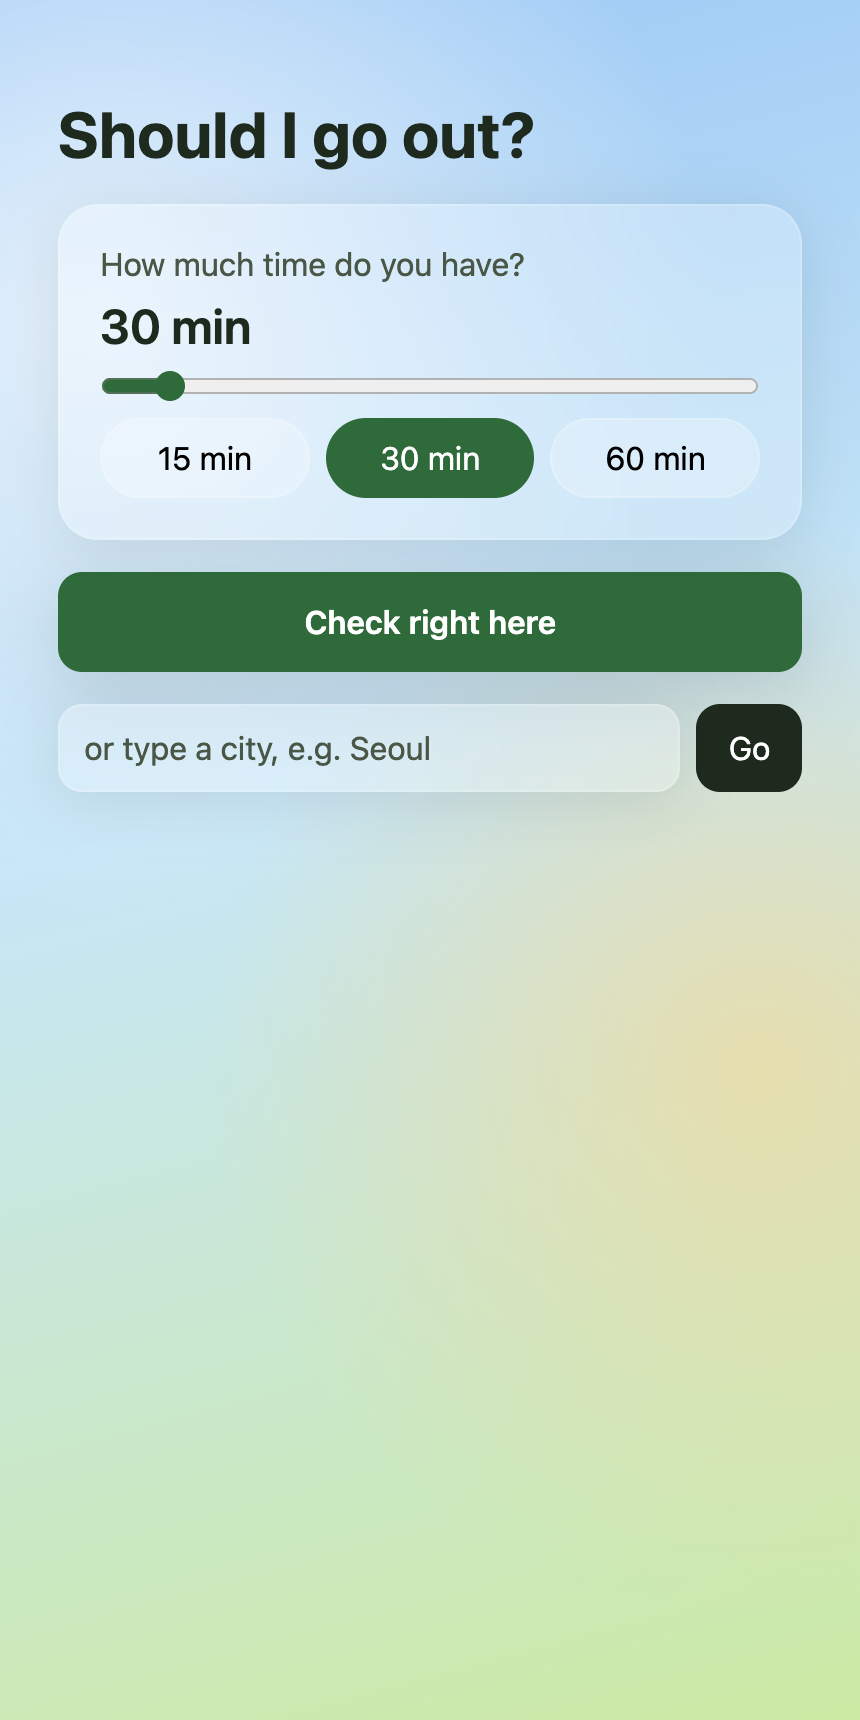
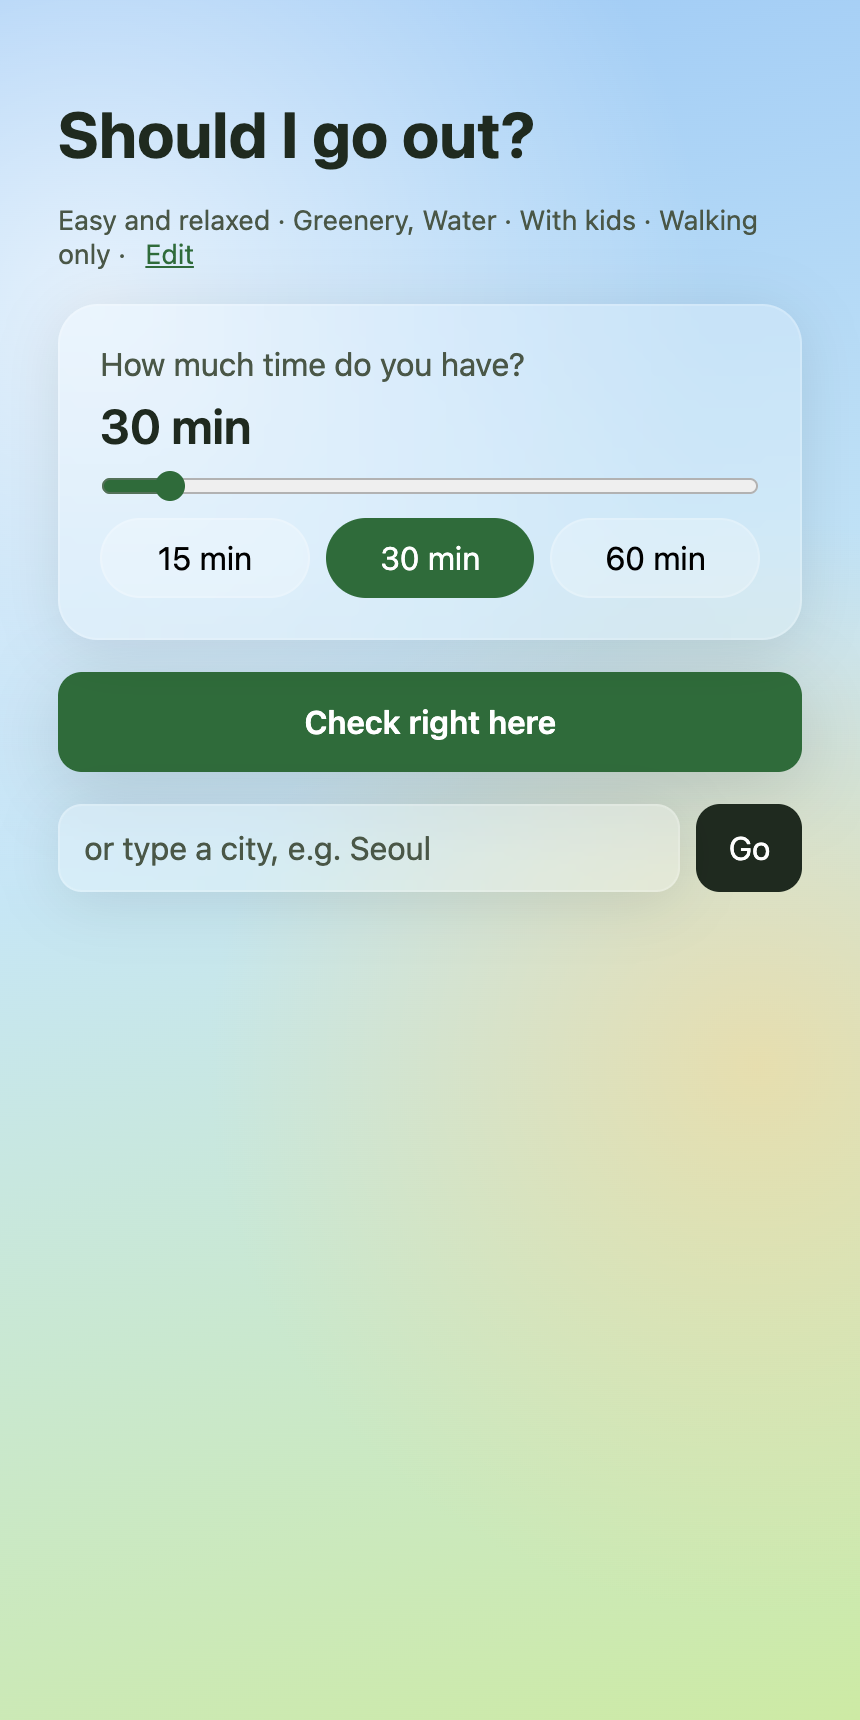
docs: sync the README with the current app
- Add a questionnaire screenshot and recapture the home and result screens
- Record a new demo GIF with the quiz, things to do, and weather panel
- Describe the web screens and credit Fluent Emoji for weather icons
- Note the session languages under Agent sessions

Entire-Checkpoint: 01M47S6SJQ8T31CVQC0MB6QABR

diff --git a/README.md b/README.md
@@ -3,13 +3,14 @@
 One tap, one suggestion, then put your phone away.
 
 <p align="center">
-  <img src="docs/demo.gif" width="300" alt="Choosing 60 minutes, getting a park walk with a route map, and switching outfits for people who run cold or warm">
+  <img src="docs/demo.gif" width="300" alt="Answering the questionnaire, choosing 60 minutes in Seoul, getting a park walk with things to do, the weather, and a route map, then switching outfits for people who run cold or warm">
 </p>
 
 <p align="center">
-  <img src="docs/home.png" width="250" alt="Home screen with the time slider">
-  <img src="docs/result.png" width="250" alt="Suggested park walk with the weather panel and a round-trip route on the map">
-  <img src="docs/outfit-cold.png" width="250" alt="Outfit for people who run cold, shown on an avatar and item cards">
+  <img src="docs/questionnaire.png" width="200" alt="First-visit questionnaire with a button to let the AI decide everything">
+  <img src="docs/home.png" width="200" alt="Home screen with a summary of the saved answers and the time slider">
+  <img src="docs/result.png" width="200" alt="Suggested walk to a park with a playground, things to do there, and the weather panel">
+  <img src="docs/outfit-cold.png" width="200" alt="Outfit for people who run cold, shown on an avatar and item cards">
 </p>
 
 On your first visit, a short questionnaire asks how you like to move, what you enjoy, who usually comes along, and whether you ride public bikes; you can also skip it and let the AI decide everything. The app then checks the weather, air quality, nearby parks, and (in Seoul) public bikes, and asks Gemma running locally through Ollama to pick a single outdoor activity that fits the time you have and your answers. It suggests a few things to do once you get there, shows a round-trip walking route on a map, and dresses an avatar for the weather.
@@ -41,7 +42,7 @@ Set `SENTRY_DSN` to send traces to Sentry. Each request then shows up as one tra
 - `apps/server/src/outfit.ts` builds a baseline outfit from the Korean feels-like temperature chart; the model may adjust it, but rain, air quality, UV, and cold extras are always kept. It also offers one layer warmer and one layer lighter for people who run cold or warm.
 - `apps/server/src/workflow.ts` runs each request as a Mastra workflow with four steps: gather conditions, ask Gemma for a JSON suggestion, check the answer with zod (falling back to simple rules if the model is unavailable or returns invalid output), and plan the walking route. While Gemma is thinking, one OSRM request fetches the round trip to every candidate park, so the route is usually ready by the time it's needed. The step logic lives in `apps/server/src/recommend.ts`.
 - Questionnaire answers are saved in the browser's localStorage and sent with each request. Gemma uses them to choose among the real parks, and parks are ranked by matching features (exercise prefers a sports field or track, kids prefer a playground). If Gemma picks a park known to match none of the answers while another park does, the server switches to that park; the rule-based fallback uses the same ranking. Answering "walking only" removes bikes from every suggestion.
-- `apps/web` renders the route with Leaflet + OpenStreetMap, and the outfit as a layered SVG avatar next to item cards.
+- `apps/web` shows the questionnaire on the first visit, the suggestion with things to do, a weather panel (sky icon, hourly rain chance for the next 3 hours, air quality, UV, wind, and sunset), the route with Leaflet + OpenStreetMap, and the outfit as a layered SVG avatar next to item cards.
 
 ## Agent sessions
 
@@ -59,7 +60,7 @@ Without Entire installed, the Cursor hooks do nothing.
 
 ## Credits
 
-- Clothing icons: [Fluent Emoji](https://github.com/microsoft/fluentui-emoji) 3D by Microsoft, MIT ([license](apps/web/public/fluent-emoji/LICENSE)).
+- Clothing and weather icons: [Fluent Emoji](https://github.com/microsoft/fluentui-emoji) 3D by Microsoft, MIT ([license](apps/web/public/fluent-emoji/LICENSE)).
 - Glass styling: the glassmorphism skill and `apps/web/src/glass-tokens.css` come from [fengshao1227/ccg-workflow](https://github.com/fengshao1227/ccg-workflow), MIT ([license](.cursor/skills/glassmorphism/LICENSE)).
 - Map tiles, parks, and park features: © [OpenStreetMap](https://www.openstreetmap.org/copyright) contributors, via Nominatim and the [Overpass API](https://overpass-api.de).
 - Walking routes: [OSRM](https://project-osrm.org) on FOSSGIS's [routing.openstreetmap.de](https://routing.openstreetmap.de).
